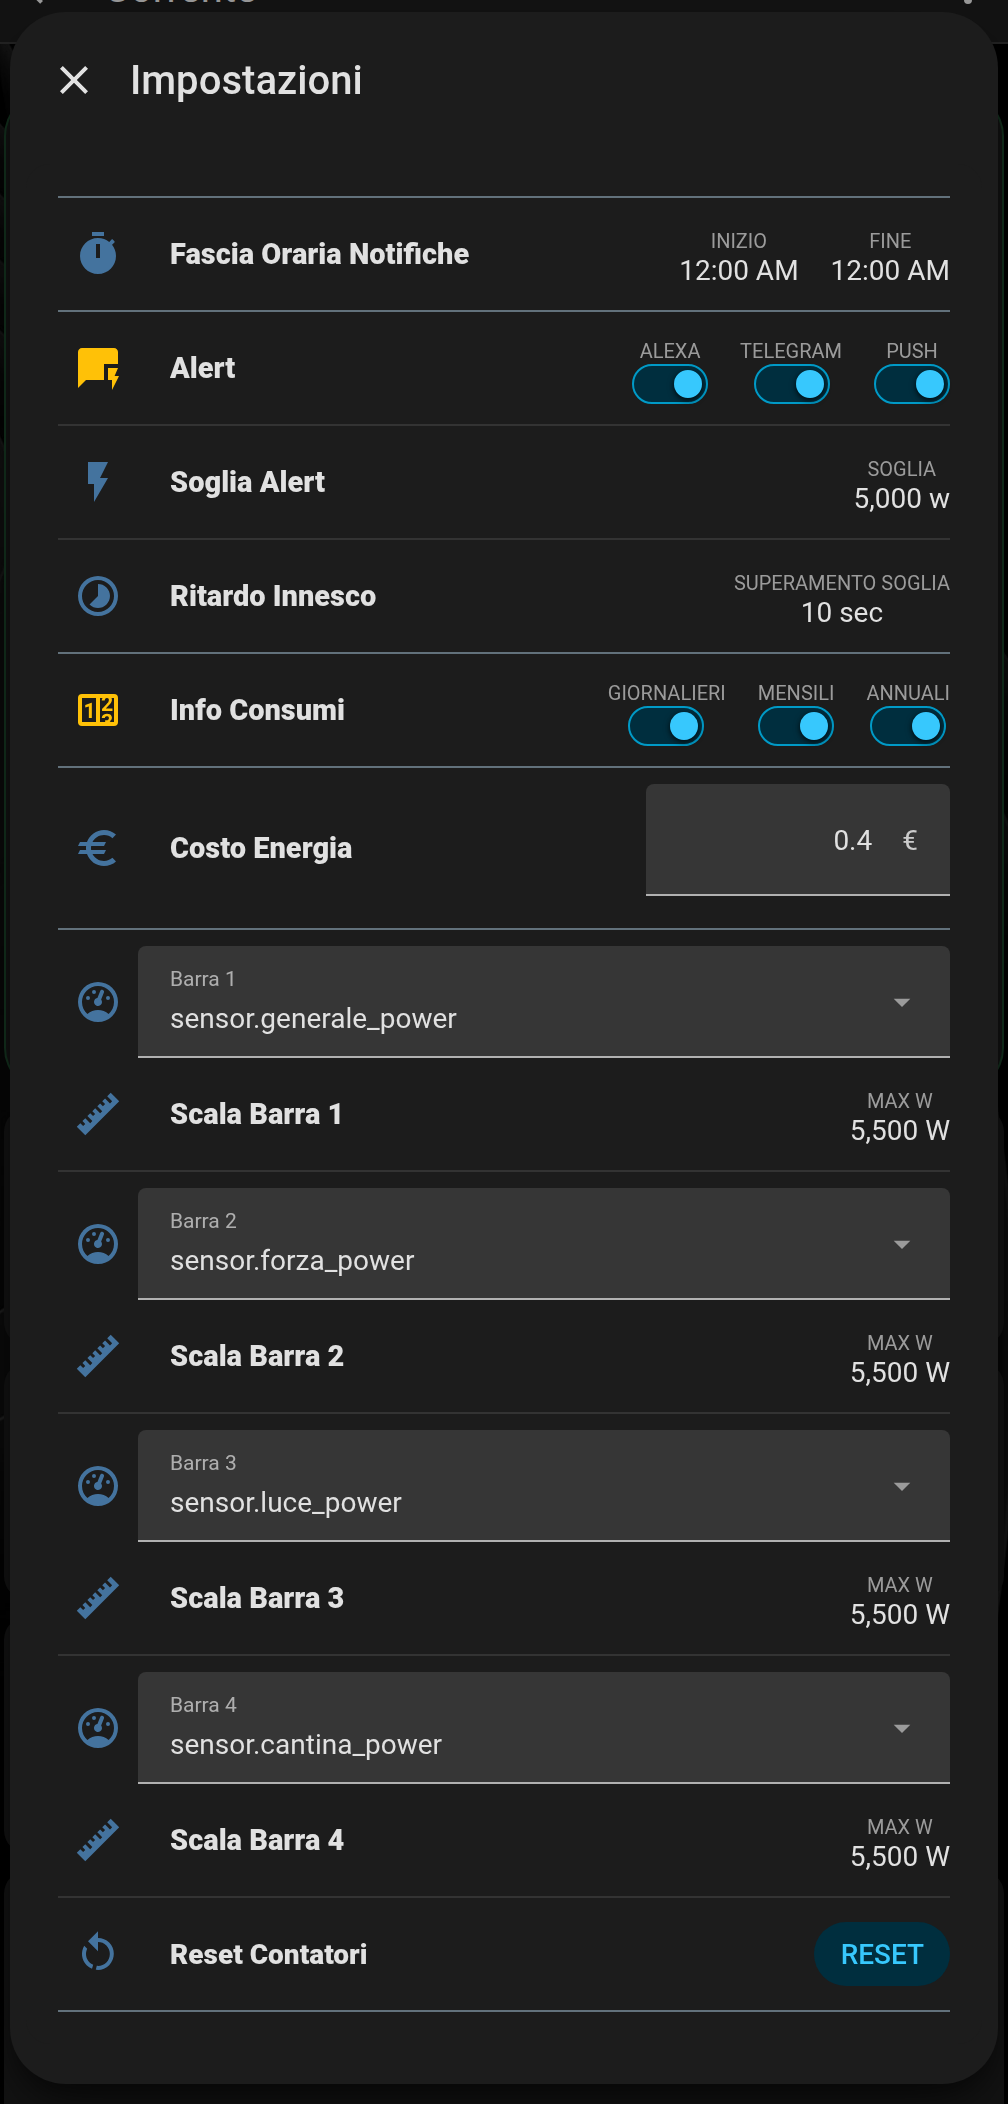
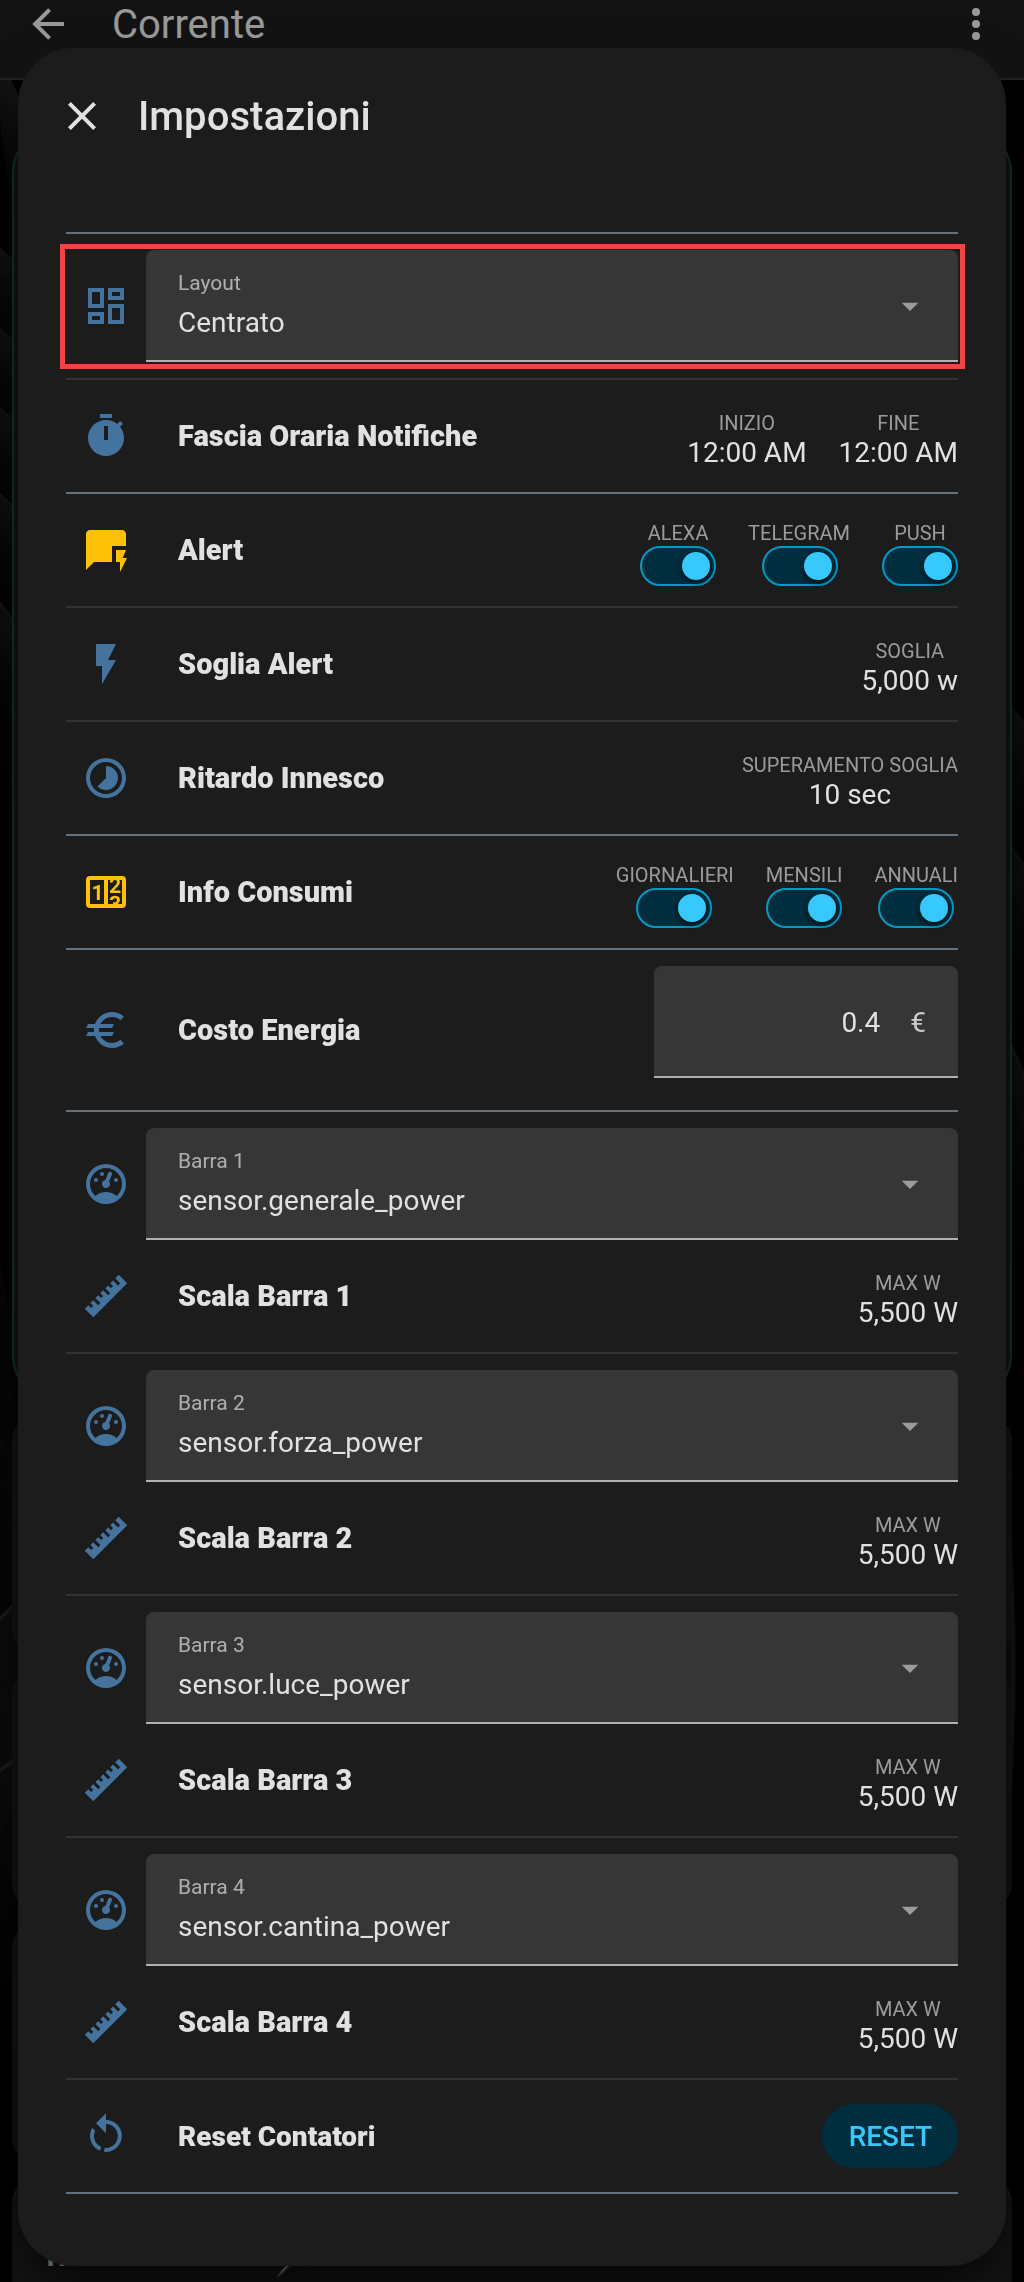
Layout classico/centrato scelto dalle Impostazioni, Top consumo e schermate aggiornate
- Nuovo parametro layout_entity/layout e menu input_select.layout_energia nel package
- Layout centrato con blocco OGGI al 40/60; in Top consumo si accorcia il nome, mai i watt
- Righe input_select come vero menu a tendina; grafico delle barre con asse non tagliato
- Guida aggiornata con le schermate classico/centrato chiare e scure e la riga Layout evidenziata

diff --git a/controllo-energia-casa.js b/controllo-energia-casa.js
@@ -85,6 +85,15 @@ const STYLE = `
 @keyframes eceh-glow{0%,100%{opacity:.55}50%{opacity:1}}
 @keyframes eceh-flicker{0%,100%{opacity:.85}30%{opacity:.5}55%{opacity:1}80%{opacity:.6}}
 .eceh-spin-drum,.eceh-spin-spray,.eceh-spin-spit{transform-box:view-box;transform-origin:120px 130px}
+/* Layout "centrato" della card energia: foto al centro in alto, sotto il blocco OGGI su 2 colonne */
+.ece-ap-card.layout-centrato .ece-ap-top-row{flex-direction:column;align-items:stretch;gap:10px}
+.ece-ap-card.layout-centrato .ece-ap-hero{flex:0 0 auto;width:100%;height:200px}
+.ece-ap-card.layout-centrato .ece-ap-cycle-side{flex:0 0 auto}
+.ece-ap-card.layout-centrato .ece-ap-cycle-cap{margin-bottom:10px}
+.ece-ap-card.layout-centrato .ece-ap-cycle-list{display:grid;grid-template-columns:1fr 1fr;gap:6px 8px;flex:0 0 auto}
+.ece-ap-card.layout-centrato.ece-e-card .ece-ap-cycle-list{grid-template-columns:2fr 3fr}
+.ece-ap-card.layout-centrato .ece-ap-cycle-list>.ece-ap-cycle-row:last-child:nth-child(odd){grid-column:1/-1}
+.ece-ap-select{max-width:62%;padding:7px 10px;border-radius:10px;border:1px solid var(--ece-border);background:var(--ece-card);color:var(--ece-text);font-size:14px;font-weight:600;font-family:inherit}
 .ece-ap-card.is-run .eceh-spin-drum{animation:eceh-spin 2.6s linear infinite}
 .ece-ap-card.is-run .eceh-spin-spray{animation:eceh-spin 1.3s linear infinite}
 .ece-ap-card.is-run .eceh-spin-spit{animation:eceh-spin 3.4s linear infinite}
@@ -96,6 +105,9 @@ const STYLE = `
 .ece-ap-cycle-row{display:flex;align-items:baseline;justify-content:space-between;gap:8px;min-width:0}
 .ece-ap-cycle-row small{flex:0 0 auto;font-size:10.5px;font-weight:900;letter-spacing:.7px;text-transform:uppercase;color:var(--ece-dim)}
 .ece-ap-cycle-row b{min-width:0;text-align:right;overflow:hidden;text-overflow:ellipsis;white-space:nowrap;font-size:13.5px;font-weight:400;letter-spacing:-.1px;color:var(--ece-text)}
+.ece-ap-cycle-row b.ece-e-top{display:flex;justify-content:flex-end;overflow:hidden;text-overflow:clip}
+.ece-e-top-n{min-width:0;overflow:hidden;text-overflow:ellipsis;white-space:nowrap}
+.ece-e-top-w{flex:0 0 auto;white-space:nowrap}
 .ece-ap-cycle-row-b{padding:4px 8px;border-radius:9px;border:1px solid var(--ece-border);background:var(--ece-card);align-items:center}
 .ece-ap-cycle-label{display:flex;align-items:center;gap:5px;min-width:0;flex:0 0 auto}
 .ece-ap-cycle-ic{display:flex;align-items:center;flex:0 0 auto;color:var(--ece-blue)}
@@ -190,6 +202,17 @@ function meterSeverityColor(pct) {
 
 // Inverso di meterSeverityColor: per grandezze dove ALTO e' un bene (es.
 // carica batteria) invece che un problema (es. carico/CPU/disco).
+function applyLayoutChoice(root, cfg, hass) {
+  const card = root && root.querySelector(".ece-ap-card");
+  if (!card) return;
+  let layout = cfg.layout;
+  if (cfg.layout_entity) {
+    const v = String(hass.states[cfg.layout_entity]?.state || "").toLowerCase();
+    if (v === "classico" || v === "centrato") layout = v;
+  }
+  card.classList.toggle("layout-centrato", layout === "centrato");
+}
+
 class ControlloEnergiaCasaCard extends HTMLElement {
   setConfig(config) {
     if (!config.power_entity) throw new Error("power_entity \u00e8 obbligatorio");
@@ -204,6 +227,7 @@ class ControlloEnergiaCasaCard extends HTMLElement {
       switches: [],
       actions: [],
       settings_sections: [],
+      layout: "classico", // "classico" (foto a sinistra) oppure "centrato" (foto in alto, blocco OGGI su 2 colonne)
       notif_center_path: "",
       ...config,
     };
@@ -212,7 +236,7 @@ class ControlloEnergiaCasaCard extends HTMLElement {
     const hero = (HERO_BUILDERS[this._config.artwork] || HERO_BUILDERS.energy)(this._heroId);
     const chip = CHIP_SVGS[this._config.artwork] || CHIP_SVGS.energy;
     this._root.innerHTML = `<style>${STYLE}</style>
-      <article class="ece-ap-card is-run">
+      <article class="ece-ap-card ece-e-card is-run${this._config.layout === "centrato" ? " layout-centrato" : ""}">
         <div class="ece-ap-top">
           <span class="ece-ap-chip">${chip}</span>
           <span class="ece-ap-headings">
@@ -312,6 +336,13 @@ class ControlloEnergiaCasaCard extends HTMLElement {
       overlay.addEventListener("click", (e) => {
         if (e.target === overlay) overlay.hidden = true;
       });
+      // Menu a tendina delle impostazioni (righe input_select): la scelta viene applicata subito.
+      overlay.addEventListener("change", (e) => {
+        const t = e.target;
+        if (t && t.dataset && t.dataset.selectEntity && this._hass) {
+          this._hass.callService("input_select", "select_option", { entity_id: t.dataset.selectEntity, option: t.value });
+        }
+      });
       this._root.appendChild(overlay);
     }
     overlay.innerHTML = `<div class="ece-ap-dialog">
@@ -335,6 +366,12 @@ class ControlloEnergiaCasaCard extends HTMLElement {
         row.label,
         `<button type="button" class="ece-ap-switch${on ? " on" : ""}" data-entity="${esc(row.entity)}" aria-pressed="${on}"></button>`,
       );
+    }
+    if (domain === "input_select") {
+      const opts = (st.attributes?.options || [])
+        .map((o) => `<option value="${esc(o)}"${o === st.state ? " selected" : ""}>${esc(o)}</option>`)
+        .join("");
+      return this._row(row.label, `<select class="ece-ap-select" data-select-entity="${esc(row.entity)}">${opts}</select>`);
     }
     const unit = st.attributes?.unit_of_measurement || "";
     return `<div class="ece-ap-row" data-open-entity="${esc(row.entity)}" style="cursor:pointer">
@@ -633,6 +670,7 @@ class ControlloEnergiaCasaCard extends HTMLElement {
   set hass(hass) {
     this._hass = hass;
     if (!this._config) return;
+    applyLayoutChoice(this._root, this._config, hass);
     const cfg = this._config;
 
     const watt = Number(hass.states[cfg.power_entity]?.state);
@@ -647,7 +685,28 @@ class ControlloEnergiaCasaCard extends HTMLElement {
     if (cfg.periods?.[3]) {
       this._root.querySelector(".ece-e-month-cost").textContent = this._val(hass, cfg.periods[3].cost, 2);
     }
-    this._root.querySelector(".ece-e-top").textContent = cfg.top_entity ? (hass.states[cfg.top_entity]?.state ?? "\u2014") : "\u2014";
+    // "Nome: 57 W": si accorcia (con ...) solo il nome del dispositivo, i watt restano sempre visibili.
+    const topEl = this._root.querySelector(".ece-e-top");
+    const topTxt = cfg.top_entity ? String(hass.states[cfg.top_entity]?.state ?? "\u2014") : "\u2014";
+    const cut = topTxt.lastIndexOf(":");
+    if (cut > 0 && /W\s*$/.test(topTxt)) {
+      const nome = topTxt.slice(0, cut);
+      const watt = topTxt.slice(cut);
+      if (topEl.dataset.v !== topTxt) {
+        topEl.dataset.v = topTxt;
+        topEl.textContent = "";
+        const n = document.createElement("span");
+        n.className = "ece-e-top-n";
+        n.textContent = nome;
+        const w = document.createElement("span");
+        w.className = "ece-e-top-w";
+        w.textContent = watt;
+        topEl.append(n, w);
+      }
+    } else {
+      topEl.dataset.v = topTxt;
+      topEl.textContent = topTxt;
+    }
 
     (cfg.circuits || []).slice(0, 4).forEach((c, i) => {
       const el = this._root.querySelector(`[data-circuit-index="${i}"]`);
@@ -674,6 +733,14 @@ class ControlloEnergiaCasaCard extends HTMLElement {
     const warnEl = this._root.querySelector(".ece-ap-warn");
     const soglia = cfg.soglia_entity ? Number(hass.states[cfg.soglia_entity]?.state) : null;
     const card = this._root.querySelector(".ece-ap-card");
+    // Layout: se c'e' "layout_entity" (un input_select Classico/Centrato scelto dalle Impostazioni)
+    // vale quella scelta, altrimenti il parametro "layout" della configurazione.
+    let layoutScelto = cfg.layout;
+    if (cfg.layout_entity) {
+      const lv = String(hass.states[cfg.layout_entity]?.state || "").toLowerCase();
+      if (lv === "classico" || lv === "centrato") layoutScelto = lv;
+    }
+    card.classList.toggle("layout-centrato", layoutScelto === "centrato");
     if (soglia != null && wattVal > soglia) {
       warnEl.hidden = false;
       warnEl.textContent = `\u26a0 Soglia superata: ${wattVal.toFixed(0)} W (limite ${soglia.toFixed(0)} W)`;

diff --git a/docs/configurazione.md b/docs/configurazione.md
@@ -15,6 +15,8 @@ top_entity: sensor.top_consumo_elettrico          # opzionale
 soglia_entity: input_number.soglia_lavoro_casa_w  # opzionale: mostra l'avviso sulla card
 media_entity: sensor.media_settimanale_kwh_consumati
 # notif_center_path: /lovelace/notifiche          # opzionale: compare il pulsante megafono
+layout_entity: input_select.layout_energia        # menu Classico / Centrato nelle Impostazioni
+# layout: centrato                                 # in alternativa, layout fisso (classico è il predefinito)
 
 periods:
   - { label: Ogni ora,  energy: sensor.energia_ogni_ora_casa,  cost: sensor.costo_consumo_ogni_ora_casa }
@@ -69,6 +71,9 @@ actions:
     confirm: "Vuoi azzerare tutti i contatori di consumo energia? L'operazione non è reversibile."
 
 settings_sections:                                 # righe del popup Impostazioni "nativo"
+  - title: Aspetto                                 # la scelta del layout, per prima
+    rows:
+      - { entity: input_select.layout_energia, label: Layout }
   - title: Notifiche Soglia
     rows:
       - { entity: input_boolean.notify_push_soglia,     label: Push }
@@ -90,7 +95,18 @@ settings_sections:                                 # righe del popup Impostazion
 | `top_entity` | no | Sensore di testo con il dispositivo che consuma di più (nel package: `sensor.top_consumo_elettrico`) |
 | `soglia_entity` | no | `input_number` con la soglia in watt: se la potenza la supera, la card mostra l'avviso *Soglia superata* |
 | `media_entity` | no | Media settimanale dei kWh, mostrata in coda agli ultimi 7 giorni |
+| `layout_entity` | no | `input_select` con le opzioni *Classico* e *Centrato* (nel package: `input_select.layout_energia`). Il valore scelto decide il layout della card |
+| `layout` | no | Layout fisso: `classico` (predefinito) o `centrato`. Se c'è anche `layout_entity`, vince il menu |
 | `notif_center_path` | no | Percorso di una tua vista (per esempio `/lovelace/notifiche`). Se lo imposti compare il pulsante megafono che ci porta. Senza, il pulsante non compare |
+
+### Layout
+
+| Layout | Disposizione |
+|---|---|
+| `classico` | Foto a sinistra, blocco OGGI (consumo, costo, costo mese, top consumo) a destra, poi le barre |
+| `centrato` | Foto al centro in alto, sotto il blocco OGGI su due colonne (40% / 60%), poi le barre |
+
+Con `layout_entity` la scelta si fa dalla prima riga delle Impostazioni, senza toccare la configurazione: aggiungi come **prima** sezione delle impostazioni la sezione *Aspetto* dell'esempio qui sopra (popup nativo), oppure la riga `input_select.layout_energia` come prima voce del popup `browser_mod` ([Impostazioni](impostazioni.md)).
 
 ### Periodi e giorni
 

diff --git a/README.md b/README.md
@@ -17,7 +17,8 @@ Non richiede altre card: funziona da sola e legge/scrive solo tramite Home Assis
 - **Grafico al clic** su ogni barra: le ultime 6 ore del circuito.
 - **Soglia di allarme**: quando il consumo supera la soglia (con un ritardo che decidi tu) la card mostra un avviso e parte la notifica.
 - **Notifiche separate**: Push sui telefoni, voce su Alexa e messaggio Telegram, ognuna con il suo interruttore (se spegni Telegram, Telegram non parte più). In più le notifiche di consumo giornaliero, mensile e annuale.
-- **Impostazioni** raggiungibili dall'ingranaggio della card: soglia, ritardo, fascia oraria, costo del kWh, scale delle barre, interruttori e il reset dei contatori.
+- **Due layout a scelta**: classico (foto a sinistra) o centrato (foto al centro in alto, blocco OGGI su due colonne). Si sceglie dalla **prima riga delle Impostazioni**.
+- **Impostazioni** raggiungibili dall'ingranaggio della card: layout, soglia, ritardo, fascia oraria, costo del kWh, scale delle barre, interruttori e il reset dei contatori.
 
 | Circuiti | Statistiche |
 |---|---|
@@ -28,6 +29,21 @@ Non richiede altre card: funziona da sola e legge/scrive solo tramite Home Assis
 | ![Grafico](docs/screenshot/barra-light.png) | ![Impostazioni](docs/screenshot/impostazioni-light.png) |
 
 Le stesse schermate in tema scuro si trovano nella cartella [`docs/screenshot`](docs/screenshot).
+
+## 🎛 Layout classico o centrato
+
+La card è una sola, ma si può mostrare in due modi. La scelta è la **prima riga delle Impostazioni** (l'ingranaggio): un menu a tendina *Classico / Centrato*, e la card cambia subito.
+
+| | Classico | Centrato |
+|---|---|---|
+| **Chiaro** | ![Classico chiaro](docs/screenshot/layout-classico-light.png) | ![Centrato chiaro](docs/screenshot/layout-centrato-light.png) |
+| **Scuro** | ![Classico scuro](docs/screenshot/layout-classico-dark.png) | ![Centrato scuro](docs/screenshot/layout-centrato-dark.png) |
+
+| La riga "Layout" è la prima delle Impostazioni |
+|---|
+| ![Layout nelle impostazioni](docs/screenshot/impostazioni-light.png) |
+
+Nel layout centrato la colonna di destra (con il *Top consumo*) è più larga, e se il nome del dispositivo è troppo lungo si accorcia il nome, mai i watt. Come si attiva: [Configurazione](docs/configurazione.md#layout).
 
 ## 🚀 Metodo veloce: usa il mio package originale
 

diff --git a/docs/impostazioni.md b/docs/impostazioni.md
@@ -10,10 +10,13 @@ Se non imposti `legacy_settings_popup`, la card apre il suo popup, con lo stesso
 - `switches`: interruttori (prese, ecc.);
 - `actions`: pulsanti come il reset dei contatori.
 
-Le entità `input_boolean`, `switch` e `automation` diventano interruttori. Le altre (per esempio un `input_number`) mostrano il valore: toccandole si apre la finestra dell'entità per modificarla.
+Le entità `input_boolean`, `switch` e `automation` diventano interruttori, le `input_select` diventano un vero menu a tendina. Le altre (per esempio un `input_number`) mostrano il valore: toccandole si apre la finestra dell'entità per modificarla.
 
 ```yaml
 settings_sections:
+  - title: Aspetto
+    rows:
+      - { entity: input_select.layout_energia, label: Layout }   # la scelta del layout, per prima
   - title: Notifiche Soglia
     rows:
       - { entity: input_boolean.notify_push_soglia,        label: Push }
@@ -57,6 +60,9 @@ legacy_settings_popup:
     content:
       type: entities
       entities:
+        - type: divider
+        - { entity: input_select.layout_energia, name: Layout, icon: mdi:view-dashboard-outline }   # il layout, per primo
+        - type: divider
         - type: custom:multiple-entity-row
           entity: input_datetime.orario_fine_notifiche_soglia_elettrica_casa
           icon: mdi:timer

diff --git a/docs/installazione.md b/docs/installazione.md
@@ -57,6 +57,7 @@ homeassistant:
 | Costo | `input_number.costo_energia_casa` (€/kWh) |
 | Reset | `script.reset_sensori_energia` |
 | Barre | `input_number.scala_barra_1…4`, `input_text.barra_1…4_entita`, `input_select.barra_1…4_scelta` |
+| Layout | `input_select.layout_energia` (Classico / Centrato) |
 | Top consumo | `sensor.top_consumo_elettrico` |
 | Automazioni | *Automazioni Energia*, *Energia barre: aggiorna elenco entita*, *Energia barre: salva scelta* |
 
@@ -70,6 +71,7 @@ Dopo il riavvio i valori partono da zero: imposta questi una volta sola (da *Str
 - `input_number.scala_barra_1…4`: il valore massimo di ogni barra, per esempio la potenza del contatore.
 - Gli interruttori `input_boolean.notify_*_soglia` accesi solo per i canali che vuoi usare.
 - Le 4 barre: scegli l'entità da misurare, vedi [Barre e scale](barre-e-scale.md).
+- Il **layout** (classico o centrato): prima riga delle Impostazioni della card, vedi [Configurazione](configurazione.md#layout).
 
 ## 4. Aggiungi la card
 
